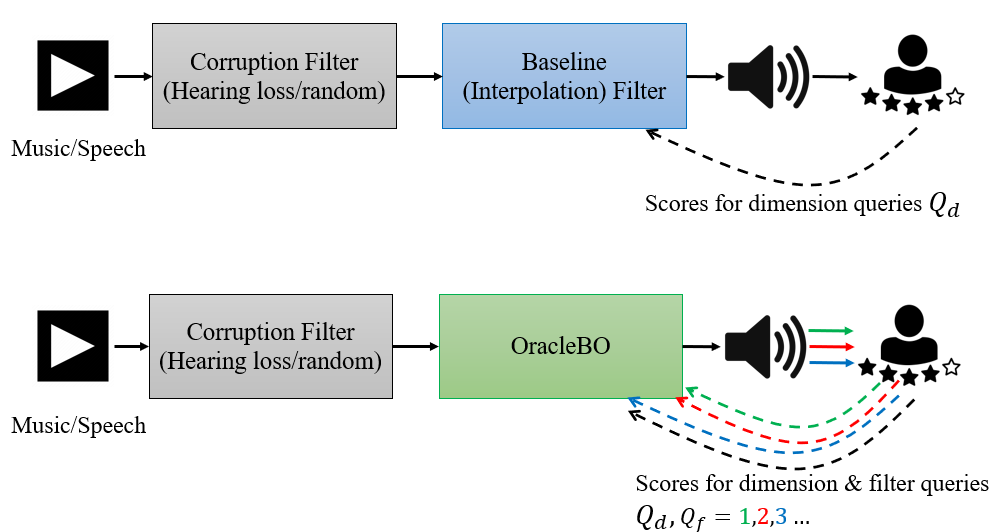
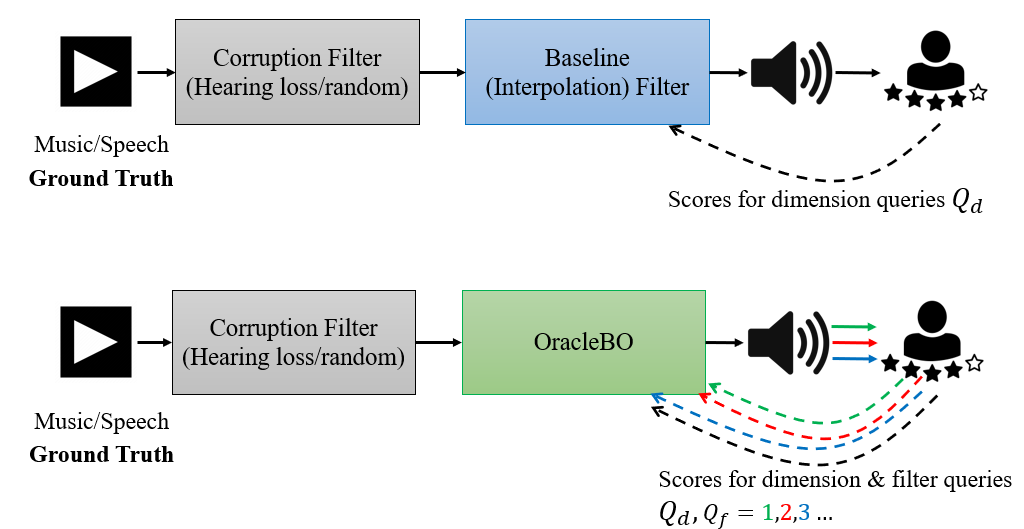
Update Index

diff --git a/index.html b/index.html
@@ -610,7 +610,7 @@ mjx-stretchy-v mjx-c, mjx-stretchy-h mjx-c {
 				<br>
                 <p align="justify"; style="font-size: 15px">
 					The Figure below shows the flow of operations for testing with real volunteers. We take an audio clip (<b>Ground Truth</b>) and first deliberately corrupt it
-					and obtain the user satisfaction score for this clip (other methods must improve this score). We then analyze how a baseline (Interpolation) filter and OracleBO improve user satisfaction through querying and user feedback.
+					and obtain the user satisfaction score for this clip (any other method must improve upon this score). We then analyze how a Baseline (Interpolation) filter and OracleBO improve user satisfaction through querying and user feedback.
 					</p>
 					<br>
 					<a><img src="img/demo.png" style="object-fit:contain;
@@ -627,9 +627,9 @@ mjx-stretchy-v mjx-c, mjx-stretchy-h mjx-c {
 					
 				<br>
 				<h4><a class="subtitle">Baseline</a></h4>
-				<p align="justify"; style="font-size: 15px">Our baseline (interpolation) filter uses dimension queries \(Q_d\). These dimension queries are essentially the
-				user's feedback for \(Q_d\) frequency tones (typically, \(Q_d=5\) queries are measured at frequencies: \((500,1000,2000,5000,4000) Hz\)). We then interpolate this user feedback to obtain the baseline filter. This interpolated filter is then used to compensate for the corruption (this final filter
-				is called an ``Audiogram" when the corruption is due to hearing loss). This process (see paper for details) is exactly as performed by audio clinics today to configure hearing aids for each individual.</p>
+				<p align="justify"; style="font-size: 15px">Our Baseline (interpolation) filter uses dimension queries \(Q_d\). These dimension queries are essentially the
+				user's feedback for \(Q_d\) frequency tones (typically, \(Q_d=5\) queries are measured at frequencies: \((500,1000,2000,5000,4000) Hz\)). We then interpolate this user feedback to obtain the Baseline filter. This interpolated filter is then used to compensate for the corruption (this final filter
+				is called an ``Audiogram" when the corruption is due to hearing loss). This process (see paper for details) models how today's audio clinics configure hearing aids for each individual.</p>
 				<br>
 				<h4><a class="subtitle">OracleBO</a></h4>
 				<p align="justify"; style="font-size: 15px"> With OracleBO, we pretend that the user has come back home from the audio clinic with the audiogram (Baseline) filter. OracleBO now plays audio clips that are filtered 
@@ -637,7 +637,7 @@ mjx-stretchy-v mjx-c, mjx-stretchy-h mjx-c {
 				the iterations with increasing filter queries (\(Q_f =\)<FONT COLOR="GREEN">1</FONT>, <FONT COLOR="RED">2</FONT>,<FONT COLOR="BLUE">3</FONT> ...).</p>
 				
 				<br>
-				<h2><a class="subtitle">Audio Demos</a></h2>
+				<h2><a class="subtitle">Audio Demos*</a></h2>
 				<br>
 				<p align="justify"; style="font-size: 15px">The audio demo below has 2 tables: (1) the hearing loss corruption case, and (2) the random corruption case. The table columns
 				are example audio clips heard by three different users (U1, U2, U3). The table rows indicate the following:
@@ -670,6 +670,12 @@ mjx-stretchy-v mjx-c, mjx-stretchy-h mjx-c {
                 
                 <h2><a class="subtitle">Audio Demos</a></h2-->
 				<br>
+				<p align="justify"; style="font-size: 15px"><FONT COLOR="RED">*Note: The audio quality you hear in the following
+				demos will be influenced by the frequency response of your speaker and the differences in each users' perception of the audio.
+				Hence the quality you experience will not accurately reflect the quality perceived by users U1, U2, U3. 
+				OracleBO is actually compensating for the user’s speaker’s response function as well, hence users U1, U2, U3 should have 
+				heard a better quality.“.</FONT>
+				<br><br>
 				<h4><a class="subtitle">The Hearing Loss Corruption case</a></h4><br>
                 <!--p align="justify"; style="font-size: 15px">
                     We show \(\texttt Corrupted \) Audio clip with hearing loss, \(\texttt Baseline\) clip, 
@@ -1056,6 +1062,7 @@ mjx-stretchy-v mjx-c, mjx-stretchy-h mjx-c {
 
                     </tbody>
                 </table>
+				
                 <br><br>
                 <h4><a class="subtitle">User Satisfaction Score Results</a></h2><br>
                 <p align="justify"; style="font-size: 15px">
